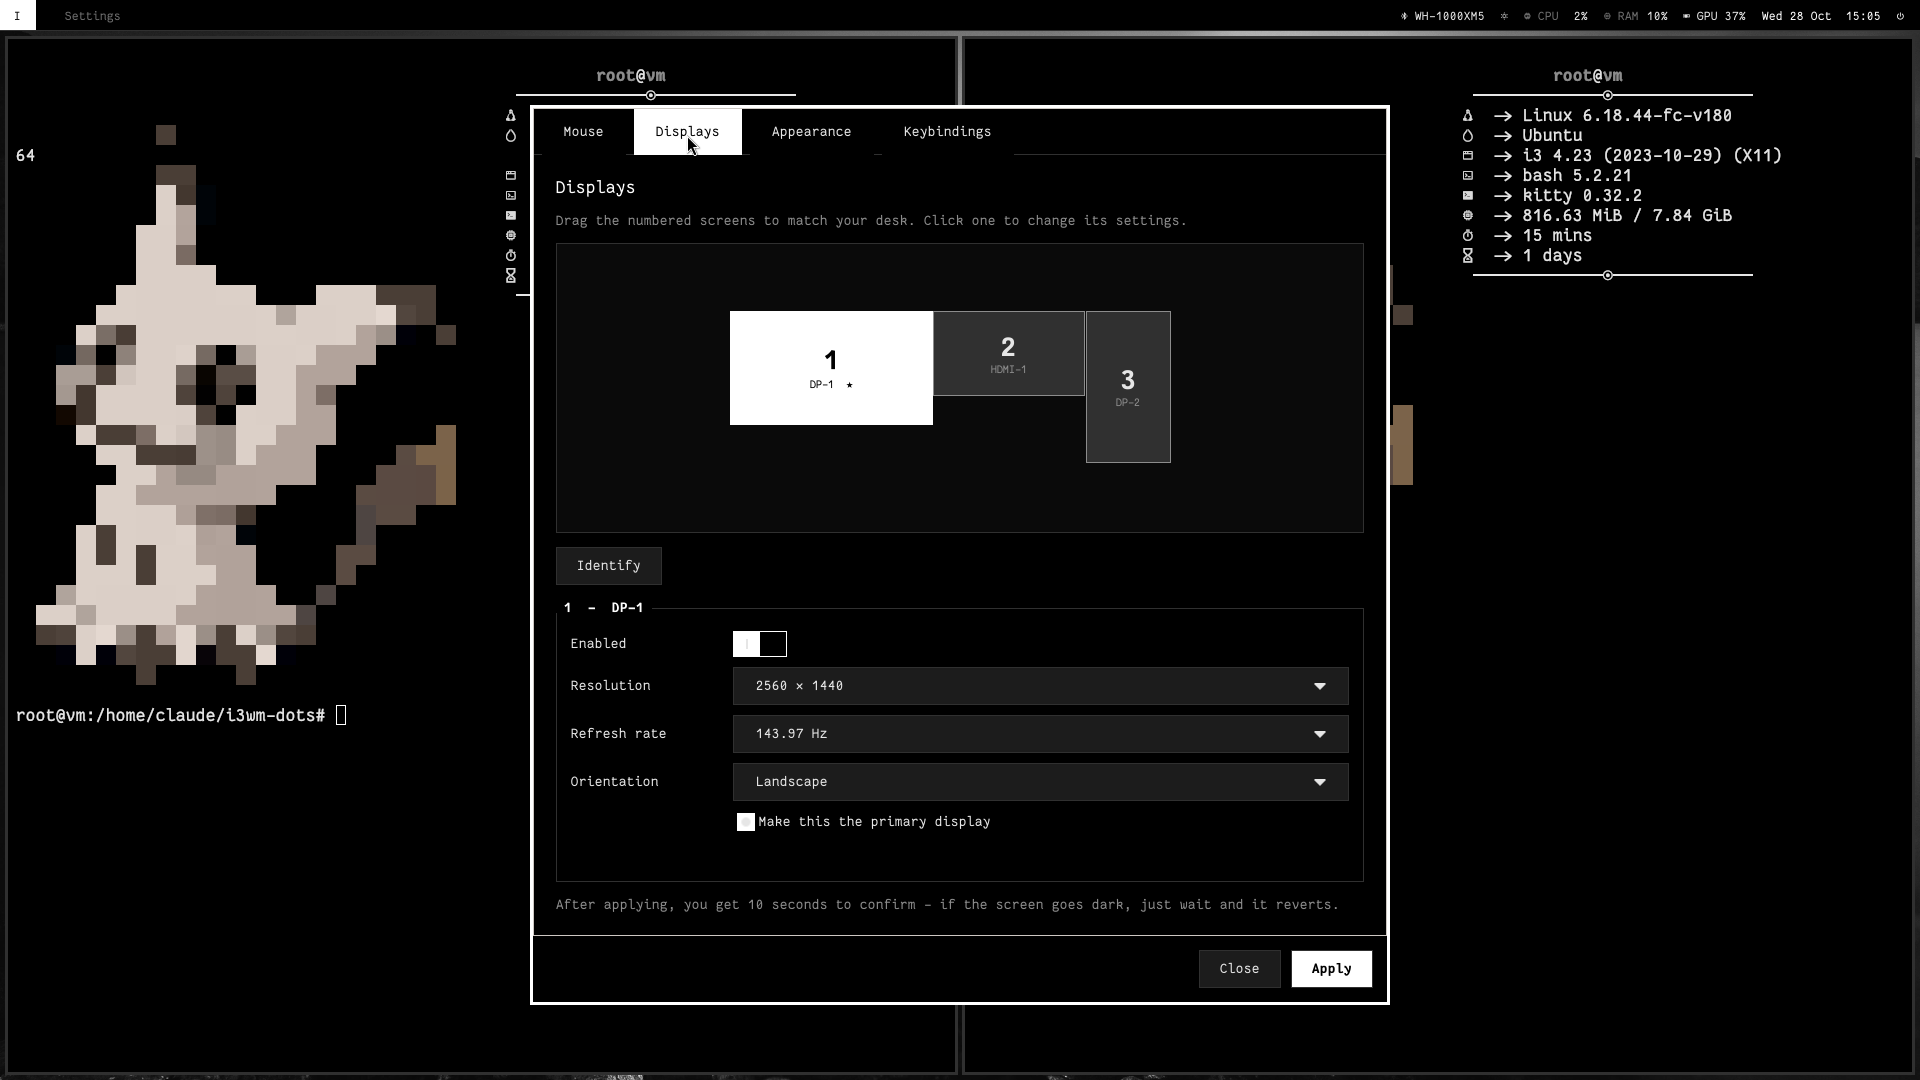
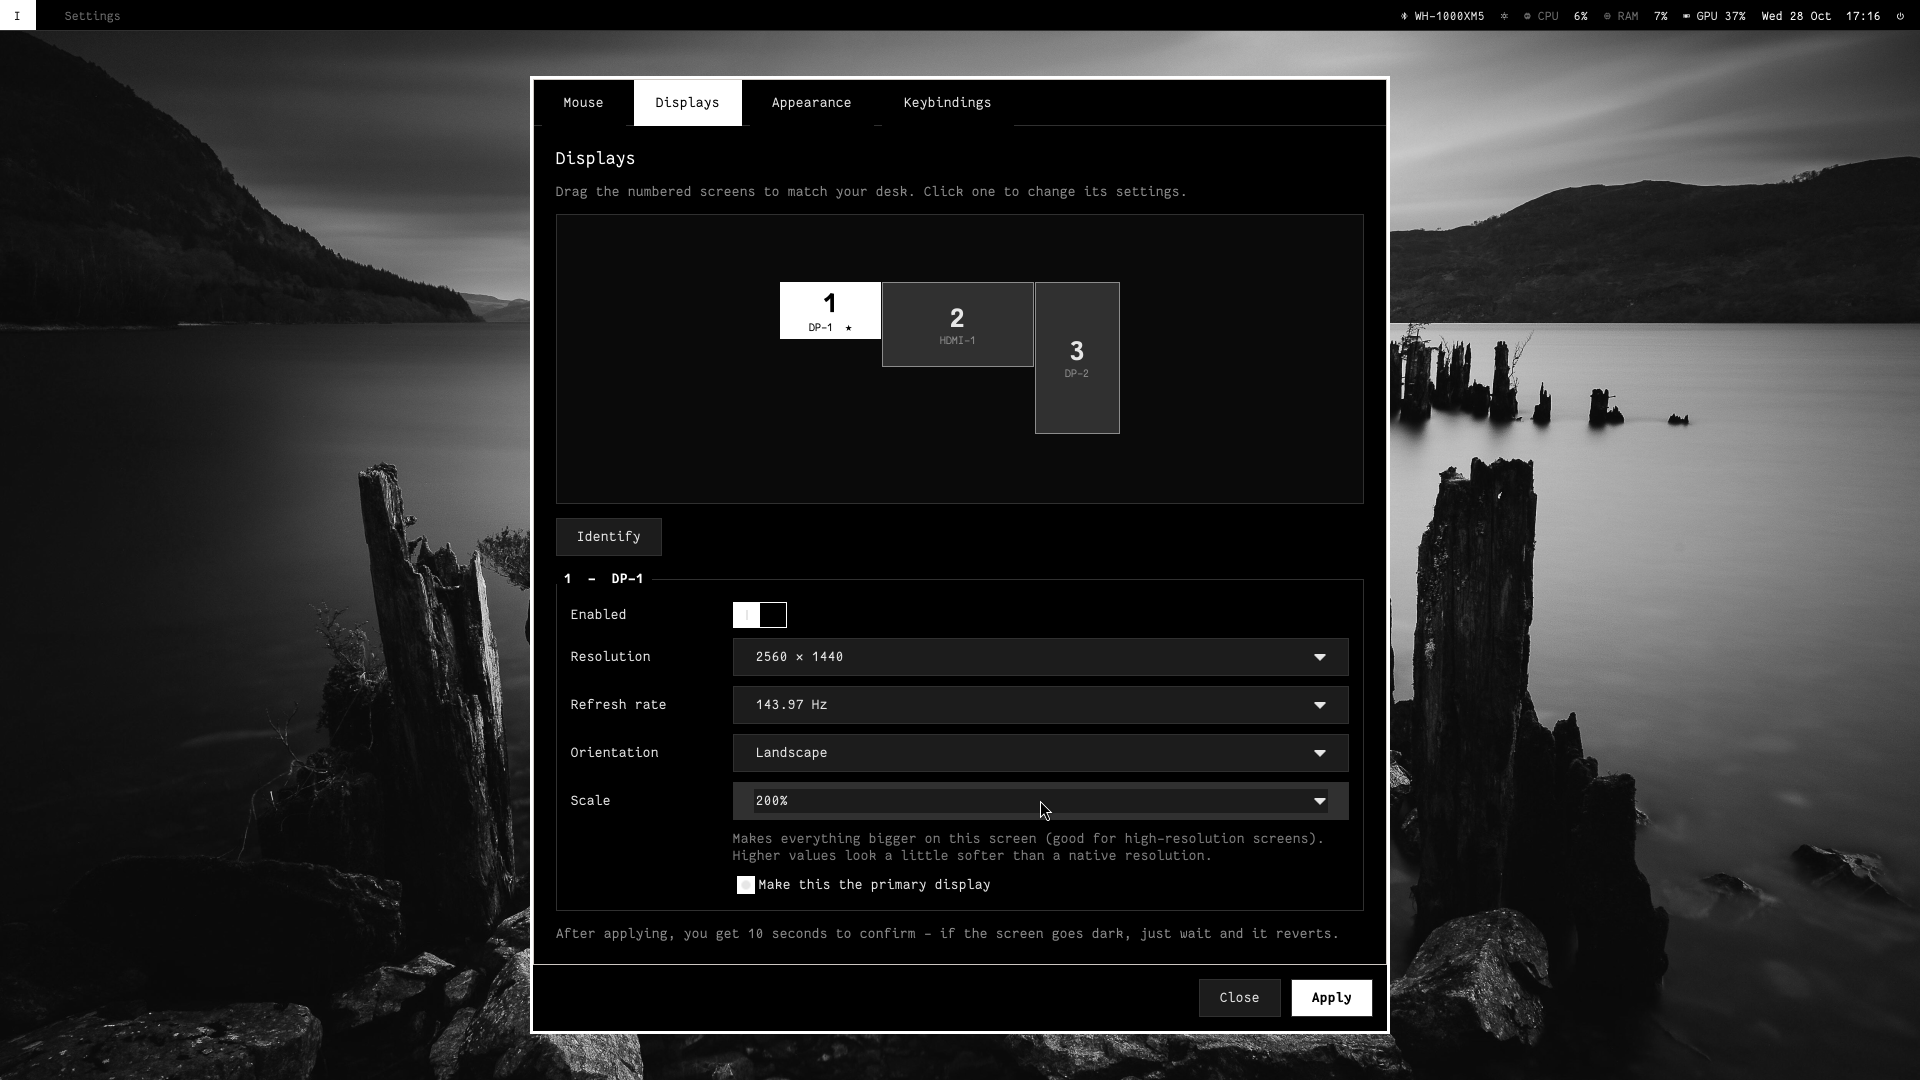
Fix launcher keybind, add display scale setting

diff --git a/config/i3/scripts/SettingsGUI.py b/config/i3/scripts/SettingsGUI.py
@@ -22,6 +22,7 @@ SETTINGS_FILE = os.environ.get("I3DOTS_SETTINGS", os.path.join(CONFIG_DIR, "sett
 ALL = "__all__"          # key used for "all mice and touchpads"
 ROTATIONS = [("normal", "Landscape"), ("left", "Portrait (left)"),
              ("right", "Portrait (right)"), ("inverted", "Landscape (flipped)")]
+SCALES = [100, 125, 150, 175, 200, 250, 300]     # screen scale in percent
 DRY = False
 
 
@@ -115,6 +116,7 @@ class Output:
         self.cur_mode = None
         self.cur_rate = None
         self.rotate = "normal"
+        self.scale = 100
         self.x = 0
         self.y = 0
         self.w = 0
@@ -158,6 +160,10 @@ def parse_xrandr(text):
                     cur.cur_mode, cur.cur_rate = mode, rm.group(1)
             if mode not in cur.modes:
                 cur.modes[mode] = rates
+    for o in outs:
+        if o.enabled and o.cur_mode and o.w:
+            pct = 100.0 * out_size(o.cur_mode, o.rotate)[0] / o.w
+            o.scale = min(SCALES, key=lambda v: abs(v - pct))
     return outs
 
 
@@ -166,10 +172,14 @@ def mode_area(mode):
     return int(w) * int(h)
 
 
-def out_size(mode, rotate):
-    """Size of a screen on the desktop (width, height) after rotation."""
+def out_size(mode, rotate, scale=100):
+    """Size of a screen on the desktop (width, height) after rotation and scaling.
+    At 200% a 3840x2160 screen takes up 1920x1080 of desktop space."""
     w, h = (int(v) for v in mode.split("x"))
-    return (h, w) if rotate in ("left", "right") else (w, h)
+    w, h = (h, w) if rotate in ("left", "right") else (w, h)
+    if scale in SCALES and scale != 100:
+        w, h = round(w * 100 / scale), round(h * 100 / scale)
+    return (w, h)
 
 
 def overlaps(a, b):
@@ -241,6 +251,9 @@ def build_xrandr(outputs, cfg):
         rot = c.get("rotate", o.rotate)
         if rot not in [r for r, _ in ROTATIONS]:
             rot = o.rotate
+        scale = c.get("scale", o.scale)
+        if scale not in SCALES:
+            scale = o.scale
         cmd += ["--output", o.name, "--mode", mode]
         if rate:
             cmd += ["--rate", str(rate)]
@@ -248,10 +261,11 @@ def build_xrandr(outputs, cfg):
             pos = "%dx%d" % (int(c["x"]), int(c["y"])) if use_pos else "%dx0" % x
         except (KeyError, TypeError, ValueError):
             pos = "%dx0" % x
-        cmd += ["--rotate", rot, "--pos", pos]
+        k = "%.5f" % (100.0 / scale)
+        cmd += ["--rotate", rot, "--scale", "%sx%s" % (k, k), "--pos", pos]
         if c.get("primary"):
             cmd += ["--primary"]
-        x += out_size(mode, rot)[0]
+        x += out_size(mode, rot, scale)[0]
     return cmd
 
 
@@ -283,7 +297,7 @@ def snapshot_monitors():
     snap = {}
     for o in parse_xrandr(query(["xrandr", "--query"])):
         snap[o.name] = {"enabled": o.enabled, "mode": o.cur_mode, "rate": o.cur_rate,
-                        "rotate": o.rotate, "primary": o.primary, "x": o.x, "y": o.y}
+                        "rotate": o.rotate, "scale": o.scale, "primary": o.primary, "x": o.x, "y": o.y}
     return snap
 
 
@@ -917,6 +931,7 @@ def launch_gui(confirm=True):
     stack = Gtk.Stack()
     mon.pack_start(stack, True, True, 0)
     primary_group = None
+    scales = {}              # monitor name -> scale combo
 
     def enabled_names():
         return [o.name for o in outputs if widgets[o.name][0].get_active()]
@@ -924,7 +939,8 @@ def launch_gui(confirm=True):
     def size_of(name):
         en, res, hz, rot, pr = widgets[name]
         m = res.get_active_id()
-        return out_size(m, rot.get_active_id() or "normal") if m else (1920, 1080)
+        sc = scales[name].get_active_id()
+        return out_size(m, rot.get_active_id() or "normal", int(sc) if sc else 100) if m else (1920, 1080)
 
     def rect_of(name, at=None):
         x, y = at if at else pos[name]
@@ -1059,6 +1075,20 @@ def launch_gui(confirm=True):
         rot.set_active_id(sv.get("rotate", o.rotate))
         box.pack_start(row("Orientation", rot, 150), False, False, 0)
 
+        sc = Gtk.ComboBoxText()
+        for v in SCALES:
+            sc.append(str(v), "%d%%%s" % (v, "  (default)" if v == 100 else ""))
+        want = sv.get("scale", o.scale)
+        sc.set_active_id(str(want if want in SCALES else 100))
+        scales[o.name] = sc
+        box.pack_start(row("Scale", sc, 150), False, False, 0)
+        note = Gtk.Label(label="Makes everything bigger on this screen (good for high-resolution screens). "
+                               "Higher values look a little softer than a native resolution.")
+        note.set_xalign(0)
+        note.set_line_wrap(True)
+        note.get_style_context().add_class("dim-label")
+        box.pack_start(row("", note, 150), False, False, 0)
+
         pr = Gtk.RadioButton.new_with_label_from_widget(primary_group, "Make this the primary display")
         if primary_group is None:
             primary_group = pr
@@ -1093,6 +1123,7 @@ def launch_gui(confirm=True):
         en.connect("notify::active", changed)
         res.connect("changed", changed)
         rot.connect("changed", changed)
+        sc.connect("changed", changed)
         pr.connect("toggled", changed)
 
     canvas.remove(ghost)          # re-add last so the drop preview is drawn above the screens
@@ -1252,8 +1283,13 @@ def launch_gui(confirm=True):
         tc.set_resizable(True)
         if col == 1:
             tc.set_min_width(300)
-        tc.set_cell_data_func(cell, lambda _c, rend, model, it, col=col: rend.set_property(
-            "weight", 700 if model[it][3] else 400) or rend.set_property("text", model[it][col] + (" *" if col == 1 and model[it][3] else "")))
+        def cell_data(_c, rend, model, it, _data=None, col=col):
+            if it is None:
+                return
+            row = model[it]
+            rend.set_property("weight", 700 if row[3] else 400)
+            rend.set_property("text", row[col] + (" *" if col == 1 and row[3] else ""))
+        tc.set_cell_data_func(cell, cell_data)
         kb_view.append_column(tc)
     kb_scroll = Gtk.ScrolledWindow()
     kb_scroll.set_policy(Gtk.PolicyType.NEVER, Gtk.PolicyType.AUTOMATIC)
@@ -1520,6 +1556,7 @@ def launch_gui(confirm=True):
             px, py = pos[name] if name in names else (x0, y0)
             cfg[name] = {"enabled": en.get_active(), "mode": res.get_active_id(),
                          "rate": hz.get_active_id(), "rotate": rot.get_active_id(),
+                         "scale": int(scales[name].get_active_id() or 100),
                          "primary": pr.get_active(), "x": int(px - x0), "y": int(py - y0)}
         return cfg
 
@@ -1590,6 +1627,7 @@ def launch_gui(confirm=True):
                         res.set_active_id(b["mode"])
                         hz.set_active_id(b.get("rate"))
                     rot.set_active_id(b.get("rotate", "normal"))
+                    scales[name].set_active_id(str(b.get("scale", 100)))
                     en.set_active(b.get("enabled", True))
                     pr.set_active(b.get("primary", False))
                     if "x" in b:

diff --git a/README.md b/README.md
@@ -103,7 +103,7 @@ Polybar, picom and pamixer are in Fedora 43/44 repos (confirmed on packages.fedo
 Press `SUPER+ALT+M` (or run `~/.config/i3/scripts/SettingsGUI.py`). Changes are applied immediately and saved to `~/.config/i3/settings.json`, which is re-applied at every login.
 
 - **Mouse:** pick a device (or all mice and touchpads), set pointer speed, and turn acceleration on or off. A **Mouse cursor** section below picks the cursor theme and size (with a preview). It sets `~/.icons/default`, Xresources and GTK, so it applies to newly opened programs.
-- **Displays:** a Windows-style layout grid. Drag the numbered screens to match your desk; they snap to each other's edges. Click a screen to set its resolution, refresh rate, orientation (landscape, portrait, flipped), enable/disable it, or make it primary. **Identify** flashes each screen's number on that monitor.
+- **Displays:** a Windows-style layout grid. Drag the numbered screens to match your desk; they snap to each other's edges. Click a screen to set its resolution, refresh rate, orientation (landscape, portrait, flipped), **scale** (100-300%; makes everything bigger on that screen, done with `xrandr --scale`, so values above 100% look slightly softer than native), enable/disable it, or make it primary. **Identify** flashes each screen's number on that monitor.
 - **Appearance:** sliders for the opacity of the focused window and of unfocused windows (20-100%). Writes `active-opacity` / `inactive-opacity` in `~/.config/picom/picom.conf` and restarts picom. Needs the compositor running. The same tab sets the **gaps** between windows and around the screen edge (0-40 px) and whether a lone window gets no gaps; these are written to `gaps inner` / `gaps outer` / `smart_gaps` in `~/.config/i3/config`. A **Bar** section puts the bar at the top or bottom and chooses which monitors show it (all, or only the ones you tick, numbered like the Displays tab). Left/right is not possible with Polybar.
 - **Keybindings:** every keybind with its description and a search box. Pick one, press **Change key...** and press the new combination (it can record combos i3 normally swallows, like `SUPER+Return`). If the combo is already used you can swap the two. Applying checks the result with `i3 -C`, writes it into `~/.config/i3/config` and reloads i3; **Reset** puts keys back. Rows for the **file manager, terminal and browser** show the program in brackets, e.g. `file manager (Dolphin)`; **Change application...** lists the installed alternatives (or any command you type) and saves the choice to `~/.config/i3/defaults.conf`. Your changes are remembered in `settings.json` and re-applied after a reinstall or update of the config.
 - After applying display changes you get 10 seconds to press **Keep**; if the screen goes dark, wait and the old layout is restored.
